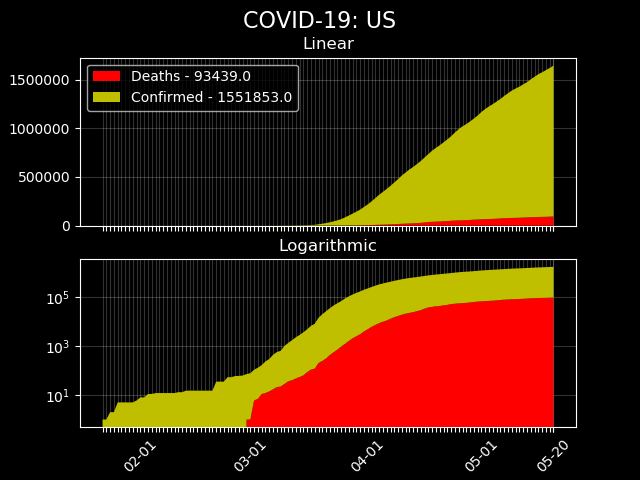
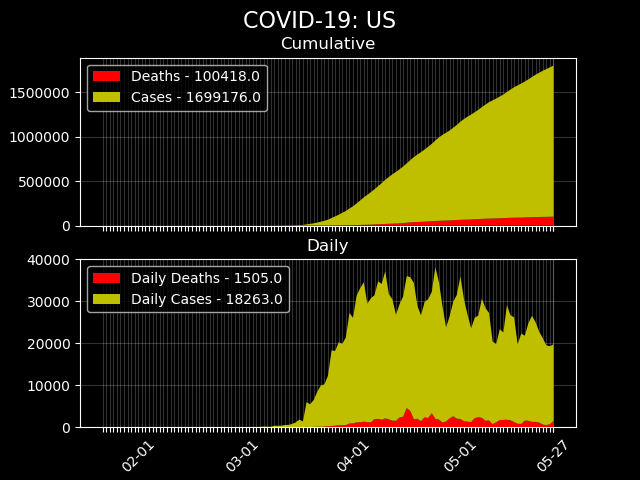
Swapped log plot w/ daily plot

diff --git a/covid19/classes.py b/covid19/classes.py
@@ -25,7 +25,7 @@ class Graph:
                         self._data["Deaths"],
                         self._data["Confirmed"],
                         labels=["Deaths - " + str(self._data["Deaths"].values[-1]),
-                                "Confirmed - " + str(self._data["Confirmed"].values[-1])],
+                                "Cases - " + str(self._data["Confirmed"].values[-1])],
                         colors=["r", "y"],
                         zorder=100,
                         alpha=1)
@@ -33,11 +33,13 @@ class Graph:
             ax[0].plot(self._x, self._y)
         ax[0].legend(loc="upper left")
         ax[0].grid(zorder=-1, alpha=0.2)
-        ax[0].set_title("Linear")
+        ax[0].set_title("Cumulative")
 
         ax[1].stackplot(range(self._data['Dates'].shape[0]),
-                        self._data["Deaths"],
-                        self._data["Confirmed"],
+                        self._data["Daily Deaths"],
+                        self._data["Daily Confirmed"],
+                        labels=["Daily Deaths - " + str(self._data["Daily Deaths"].values[-1]),
+                                "Daily Cases - " + str(self._data["Daily Confirmed"].values[-1])],
                         colors=["r", "y"],
                         zorder=100,
                         alpha=1)
@@ -46,11 +48,44 @@ class Graph:
 
         ax[1].set_xticks(d_idxs)
         ax[1].set_xticklabels(d_strings, rotation=45)
+        ax[1].legend(loc="upper left")
         ax[1].grid(zorder=-1, alpha=0.2)
-        ax[1].set_yscale("log")
-        ax[1].set_title("Logarithmic")
+        ax[1].set_title("Daily")
 
         fig.suptitle("COVID-19: " + self.country, fontsize=16)
+
+
+        # fig1, ax1 = plt.subplots(2, 1, sharex=True)
+        # ax1[0].stackplot(range(self._data['Dates'].shape[0]),
+        #                 self._data["Daily Deaths"],
+        #                 self._data["Daily Confirmed"],
+        #                 labels=["Daily Deaths - " + str(self._data["Daily Deaths"].values[-1]),
+        #                         "Daily Cases - " + str(self._data["Daily Confirmed"].values[-1])],
+        #                 colors=["r", "y"],
+        #                 zorder=100,
+        #                 alpha=1)
+        # if forecast:
+        #     ax1[0].plot(self._x, self._y)
+        # ax1[0].legend(loc="upper left")
+        # ax1[0].grid(zorder=-1, alpha=0.2)
+        # ax1[0].set_title("Linear")
+        #
+        # ax1[1].stackplot(range(self._data['Dates'].shape[0]),
+        #                 self._data["Daily Deaths"],
+        #                 self._data["Daily Confirmed"],
+        #                 colors=["r", "y"],
+        #                 zorder=100,
+        #                 alpha=1)
+        #
+        # d_idxs, d_strings = self._create_ticks()
+        #
+        # ax1[1].set_xticks(d_idxs)
+        # ax1[1].set_xticklabels(d_strings, rotation=45)
+        # ax1[1].grid(zorder=-1, alpha=0.2)
+        # ax1[1].set_yscale("log")
+        # ax1[1].set_title("Logarithmic")
+        #
+        # fig.suptitle("COVID-19: " + self.country, fontsize=16)
 
         plt.show()
 
@@ -120,7 +155,16 @@ class DFWrapper:
                 confirm_list.append(confirmed)
                 death_list.append(deaths)
 
+        daily_confirm = [confirm_list[ii] - confirm_list[ii-1] for ii in range(1, len(confirm_list))]
+        daily_confirm.insert(0, 0)
+        daily_death = [death_list[ii] - death_list[ii-1] for ii in range(1, len(death_list))]
+        daily_death.insert(0, 0)
+
+
+
         self.data = pd.DataFrame({"Dates": fnames,
                                   "Confirmed": confirm_list,
-                                  "Deaths": death_list})
+                                  "Deaths": death_list,
+                                  "Daily Confirmed": daily_confirm,
+                                  "Daily Deaths": daily_death})
 

diff --git a/covid19/main.py b/covid19/main.py
@@ -3,6 +3,6 @@ import sys
 
 if __name__ == "__main__":
     if len(sys.argv) > 1:
-        Graph(sys.argv[1])
+        output = Graph(sys.argv[1])
     else:
-        Graph()
+        output = Graph()
